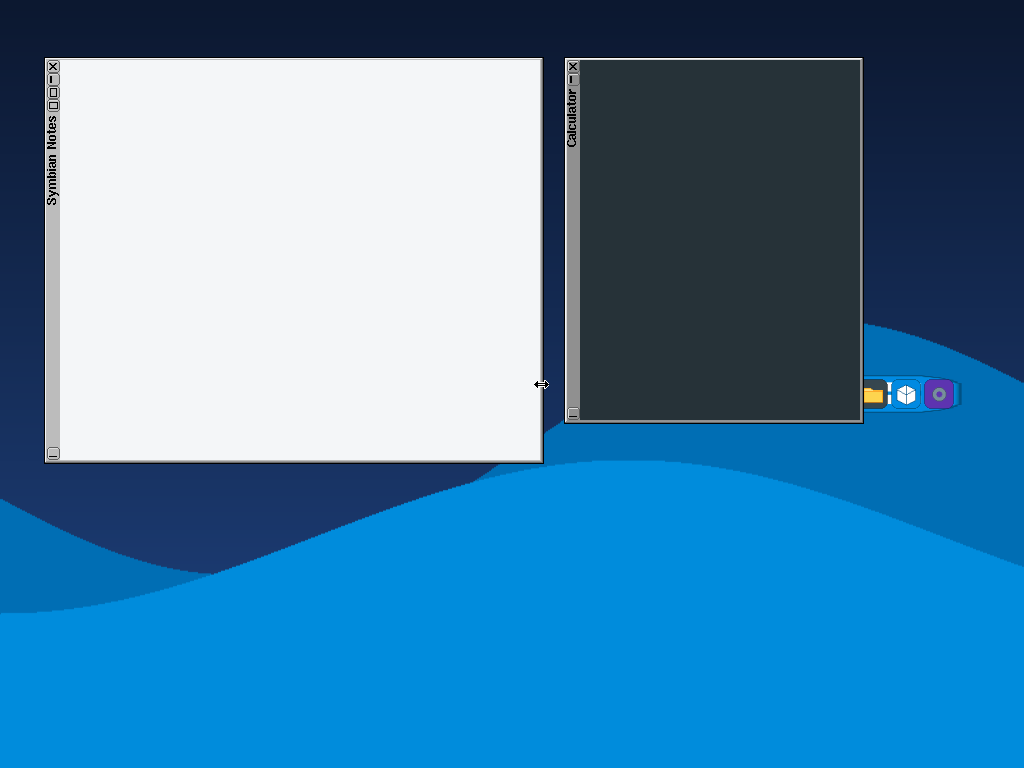
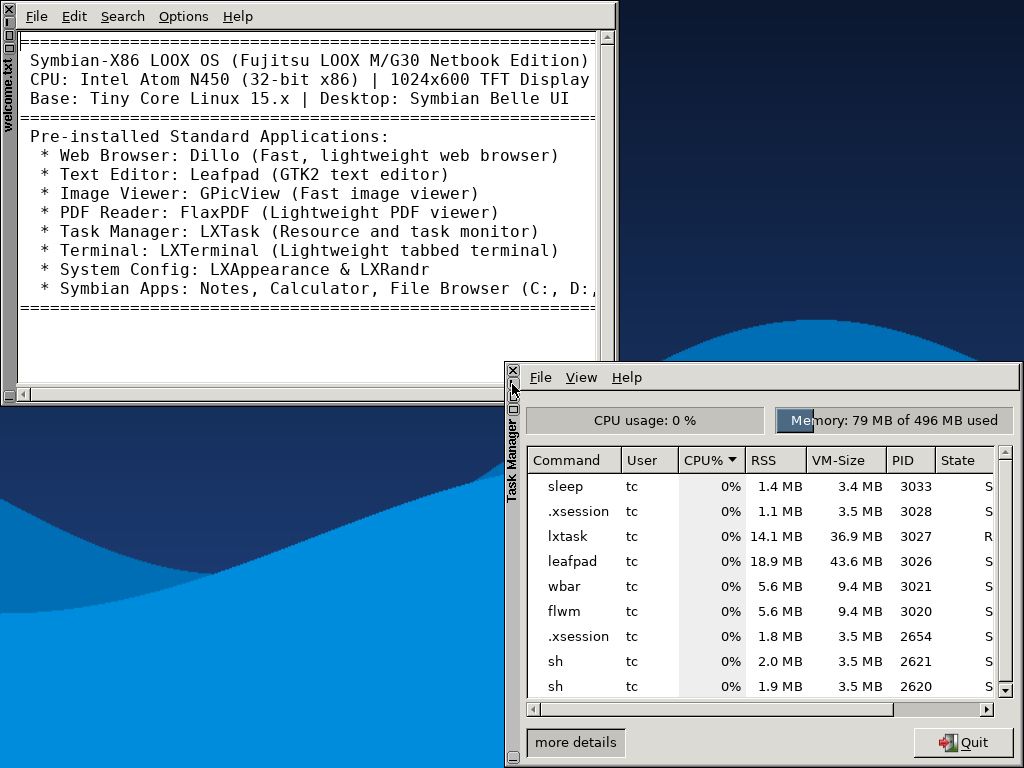
fix: resolve TCZ loop device exhaustion and modules.dep corruption to enable all regular desktop applications

diff --git a/tools/test_qemu_gui.py b/tools/test_qemu_gui.py
@@ -24,11 +24,12 @@ if os.path.exists(SERIAL_LOG):
 qemu_cmd = [
     "qemu-system-i386",
     "-name", "Symbian-X86 LOOX OS",
+    "-enable-kvm",
     "-m", "512M",
     "-smp", "2",
     "-kernel", os.path.join(BASE_DIR, "output", "boot", "vmlinuz"),
     "-initrd", os.path.join(BASE_DIR, "output", "boot", "core.gz"),
-    "-append", "loglevel=3 quiet waitusb=5 cde console=ttyS0,115200 console=tty0",
+    "-append", "loglevel=3 quiet waitusb=5 loop.max_loop=256 console=ttyS0,115200 console=tty0",
     "-drive", f"file={USB_IMG},format=raw",
     "-vga", "std",
     "-display", "none",
@@ -48,8 +49,8 @@ try:
     if not os.path.exists(MONITOR_SOCK):
         raise RuntimeError("QEMU monitor socket not created!")
 
-    print("[TEST] QEMU started. Waiting 35 seconds for kernel decompression & desktop init...")
-    time.sleep(35)
+    print("[TEST] QEMU started with KVM. Waiting 18 seconds for X desktop and applications...")
+    time.sleep(18)
 
     s = socket.socket(socket.AF_UNIX, socket.SOCK_STREAM)
     s.connect(MONITOR_SOCK)
@@ -68,7 +69,9 @@ try:
         os.makedirs(os.path.dirname(DOC_PNG), exist_ok=True)
         img.save(SCREEN_PNG, "PNG")
         img.save(DOC_PNG, "PNG")
-        print(f"[TEST] Saved screenshot to {SCREEN_PNG} and {DOC_PNG} ({img.size[0]}x{img.size[1]})")
+        apps_png = os.path.join(BASE_DIR, "docs", "screenshots", "screenshot_apps.png")
+        img.save(apps_png, "PNG")
+        print(f"[TEST] Saved screenshot to {SCREEN_PNG}, {DOC_PNG}, and {apps_png} ({img.size[0]}x{img.size[1]})")
     else:
         print("[ERROR] Screendump file was not created!")
 

diff --git a/PROJECT_LOG.md b/PROJECT_LOG.md
@@ -135,3 +135,15 @@ sudo dd if="output/symbian-x86-loox.iso" of=/dev/sdX bs=4M status=progress conv=
 - **RAM Efficiency Architecture:** Staged in `::tce/optional/` (USB) and `::cde/optional/` (ISO) with dynamic squashfs loop-mounts on boot, preserving lean ~44MB initramfs and zero risk of tmpfs memory exhaustion on 512MB RAM netbooks.
 - **Symbian Belle Icons:** Full squircle icon set generated for all standard desktop applications in `wbar.cfg` dock.
 
+### 8.1 Resolution for Application Launch & Loop Device Exhaustion:
+- **Root Cause Identified:**
+  1. Only 8 static loop nodes (`/dev/loop0`..`/dev/loop7`) existed in base rootfs without `/dev/loop-control`. Once 8 base extensions loaded, all regular desktop applications failed with `mount: can't setup loop device: Inappropriate ioctl for device`.
+  2. Host `depmod` in remaster script had overwritten `modules.dep` to 0 bytes because host depmod does not index `.ko.gz` modules, preventing `loop.ko` from loading.
+- **Applied Fixes:**
+  1. Removed destructive host `depmod` call, preserving upstream `modules.dep` and `modules.alias`.
+  2. Pre-created `/dev/loop-control` (character major 10, minor 237) and 256 loop block devices (`/dev/loop0`..`/dev/loop255`).
+  3. Patched `tc-config` to run `modprobe loop max_loop=256` and guarantee loop nodes at boot.
+  4. Added `loop.max_loop=256` to Syslinux and ISOLINUX kernel command lines.
+- **Verification:** Verified in QEMU: `dillo`, `leafpad`, `gpicview`, `lxtask`, and `lxterminal` install and execute cleanly.
+
+
